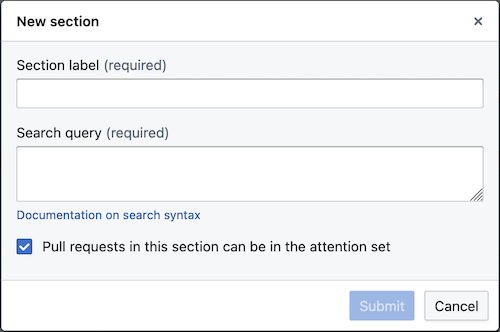
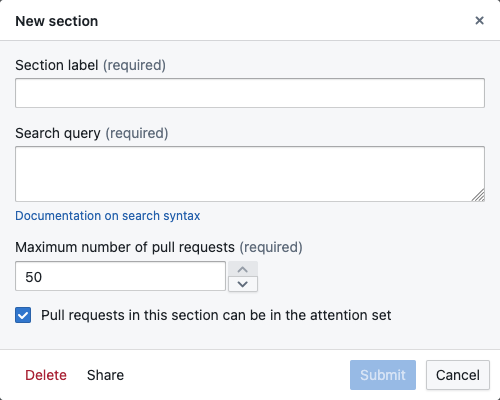
feat: limit number of pull requests returned per section

Changed region(s): [[0.0, 0.0, 1.0, 1.0], [0.18, 0.9036, 0.27, 0.9639]]

diff --git a/apps/webapp/src/components/SectionDialog.tsx b/apps/webapp/src/components/SectionDialog.tsx
@@ -7,18 +7,22 @@ import {
   FormGroup,
   InputGroup,
   Intent,
+  NumericInput,
   TextArea,
 } from "@blueprintjs/core";
 import { useState } from "react";
 import { AppToaster } from "../lib/toaster";
 import ConfirmDialog from "./ConfirmDialog";
-import { type SectionProps, defaultSectionProps } from "../lib/types";
+import {
+  MAX_SECTION_LIMIT,
+  type SectionProps,
+  emptySection,
+} from "../lib/types";
 
 type Props = {
   title: string;
   isOpen: boolean;
   section?: SectionProps;
-  newSection?: SectionProps;
   onClose: () => void;
   onSubmit: (v: SectionProps) => void;
   onDelete?: () => void;
@@ -27,43 +31,25 @@ type Props = {
 export default function SectionDialog({
   title,
   section,
-  newSection,
   isOpen,
   onClose,
   onSubmit,
   onDelete,
 }: Props) {
-  const [label, setLabel] = useState("");
-  const [search, setSearch] = useState("");
-  const [attention, setAttention] = useState(true);
+  const [data, setData] = useState<SectionProps>(emptySection);
   const [isDeleting, setDeleting] = useState(false);
 
   const handleOpening = () => {
-    setLabel(
-      section
-        ? section.label
-        : newSection
-          ? newSection.label
-          : defaultSectionProps.label,
-    );
-    setSearch(
-      section
-        ? section.search
-        : newSection
-          ? newSection.search
-          : defaultSectionProps.search,
-    );
-    setAttention(
-      section
-        ? section.attention
-        : newSection
-          ? newSection.attention
-          : defaultSectionProps.attention,
-    );
+    if (section) {
+      setData(section);
+    } else {
+      // Reset dialog after a section has been created.
+      setData(emptySection);
+    }
   };
   const handleSubmit = () => {
     if (isValid()) {
-      onSubmit({ label, search, attention });
+      onSubmit(data);
       onClose();
     }
   };
@@ -74,8 +60,9 @@ export default function SectionDialog({
   const handleShare = async () => {
     const params = new URLSearchParams();
     params.set("action", "share");
-    params.set("label", label);
-    params.set("search", search);
+    params.set("label", data.label);
+    params.set("search", data.search);
+    params.set("limit", `${data.limit}`);
     await navigator.clipboard.writeText(
       `${window.location.origin}/inbox?${params.toString()}`,
     );
@@ -85,7 +72,8 @@ export default function SectionDialog({
     });
   };
 
-  const isValid = () => label.trim().length > 0 && search.trim().length > 0;
+  const isValid = () =>
+    data.label.trim().length > 0 && data.search.trim().length > 0;
 
   return (
     <>
@@ -98,8 +86,8 @@ export default function SectionDialog({
         <DialogBody>
           <FormGroup label="Section label" labelInfo="(required)">
             <InputGroup
-              value={label}
-              onChange={(e) => setLabel(e.target.value)}
+              value={data.label}
+              onValueChange={(v) => setData((prev) => ({ ...prev, label: v }))}
             />
           </FormGroup>
           <FormGroup
@@ -115,15 +103,33 @@ export default function SectionDialog({
             }
           >
             <TextArea
-              value={search}
-              onChange={(e) => setSearch(e.target.value)}
+              value={data.search}
+              onChange={(e) =>
+                setData((prev) => ({ ...prev, search: e.target.value }))
+              }
               fill
             />
           </FormGroup>
+          <FormGroup
+            label="Maximum number of pull requests"
+            labelInfo="(required)"
+          >
+            <NumericInput
+              value={data.limit}
+              min={1}
+              max={MAX_SECTION_LIMIT}
+              onValueChange={(v) => setData((prev) => ({ ...prev, limit: v }))}
+            />
+          </FormGroup>
           <Checkbox
-            checked={attention}
+            checked={data.attention}
             label="Pull requests in this section can be in the attention set"
-            onChange={(e) => setAttention(e.currentTarget.checked)}
+            onChange={(e) =>
+              setData((prev) => ({
+                ...prev,
+                attention: e.currentTarget.checked,
+              }))
+            }
           />
         </DialogBody>
         <DialogFooter

diff --git a/apps/webapp/src/routes/dashboard.tsx b/apps/webapp/src/routes/dashboard.tsx
@@ -4,9 +4,10 @@ import { Button } from "@blueprintjs/core";
 import SectionDialog from "../components/SectionDialog";
 import DashboardSection from "../components/DashboardSection";
 import {
+  DEFAULT_SECTION_LIMIT,
   type Section,
   type SectionProps,
-  defaultSectionProps,
+  emptySection,
 } from "../lib/types";
 import { useSections, usePulls } from "../lib/queries";
 import {
@@ -25,7 +26,7 @@ export default function Dashboard() {
 
   const [isEditing, setEditing] = useState(false);
   const [searchParams, setSearchParams] = useSearchParams();
-  const [newSection, setNewSection] = useState(defaultSectionProps);
+  const [newSection, setNewSection] = useState(emptySection);
 
   const useAttentionSet = sections.data.some((section) => section.attention);
 
@@ -39,10 +40,12 @@ export default function Dashboard() {
   // Open a "New section" dialog if URL is a share link.
   useEffect(() => {
     if (searchParams.get("action") === "share") {
+      const limit = searchParams.get("limit");
       setNewSection({
         label: searchParams.get("label") || "",
         search: searchParams.get("search") || "",
-        attention: defaultSectionProps.attention,
+        limit: limit ? parseInt(limit) : DEFAULT_SECTION_LIMIT,
+        attention: emptySection.attention,
       });
       setEditing(true);
     }
@@ -79,7 +82,7 @@ export default function Dashboard() {
         />
       </Navbar>
       <SectionDialog
-        newSection={newSection}
+        section={newSection}
         title="New section"
         isOpen={sections.isLoaded && isEditing}
         onClose={() => setEditing(false)}

diff --git a/apps/webapp/src/lib/types.ts b/apps/webapp/src/lib/types.ts
@@ -1,5 +1,8 @@
 import type { Profile } from "@repo/github";
 
+export const DEFAULT_SECTION_LIMIT = 50;
+export const MAX_SECTION_LIMIT = 50;
+
 /**
  * Properties for a section, as provided by a user in a form or API.
  */
@@ -7,6 +10,7 @@ export type SectionProps = {
   label: string;
   search: string;
   attention: boolean;
+  limit?: number;
 };
 
 export const defaultSections: SectionProps[] = [
@@ -15,16 +19,19 @@ export const defaultSections: SectionProps[] = [
     search:
       "is:open -author:@me review-requested:@me ; is:open -author:@me involves:@me",
     attention: true,
+    limit: DEFAULT_SECTION_LIMIT,
   },
   {
     label: "Outgoing reviews",
     search: "is:open author:@me draft:false",
     attention: true,
+    limit: DEFAULT_SECTION_LIMIT,
   },
   {
     label: "Draft reviews",
     search: "is:open author:@me draft:true",
     attention: true,
+    limit: DEFAULT_SECTION_LIMIT,
   },
 ];
 
@@ -39,10 +46,11 @@ export type Section = SectionProps & {
 /**
  * Default properties for a new section.
  */
-export const defaultSectionProps: SectionProps = {
+export const emptySection: SectionProps = {
   label: "",
   search: "",
   attention: true,
+  limit: DEFAULT_SECTION_LIMIT,
 };
 
 /**

diff --git a/packages/github/src/client.ts b/packages/github/src/client.ts
@@ -21,8 +21,6 @@ import {
   CheckConclusionState,
 } from "../generated/gql/graphql";
 
-const MAX_PULLS_TO_FETCH = 50;
-
 const MyOctokit = Octokit.plugin(throttling);
 
 export type Endpoint = {
@@ -36,6 +34,7 @@ export interface GitHubClient {
     endpoint: Endpoint,
     search: string,
     orgs: string[],
+    limit: number,
   ): Promise<PullProps[]>;
 }
 
@@ -80,15 +79,13 @@ export class DefaultGitHubClient implements GitHubClient {
     endpoint: Endpoint,
     search: string,
     orgs: string[],
+    limit: number,
   ): Promise<PullProps[]> {
     const q = prepareQuery(search, orgs);
     const query = SearchDocument.toString() as string;
 
     const octokit = this.getOctokit(endpoint);
-    const data = await octokit.graphql<SearchQuery>(query, {
-      q,
-      limit: MAX_PULLS_TO_FETCH,
-    });
+    const data = await octokit.graphql<SearchQuery>(query, { q, limit });
     return (
       data.search.edges
         ?.filter(isNonNull)

diff --git a/apps/webapp/src/worker/instance.ts b/apps/webapp/src/worker/instance.ts
@@ -6,6 +6,7 @@ import { db } from "../lib/db";
 import { splitQueries } from "@repo/github";
 import { GitHubClient, isInAttentionSet, type Pull } from "@repo/github";
 import { gitHubClient } from "../github";
+import { DEFAULT_SECTION_LIMIT, MAX_SECTION_LIMIT } from "../lib/types";
 
 const syncPullsIntervalMillis = 5 * 60_000; // 5 minutes
 const syncViewersIntervalMillis = 60 * 60_000; // 1 hour
@@ -105,6 +106,10 @@ export async function syncPullsOnce(
                   connection,
                   query,
                   connection.orgs,
+                  Math.min(
+                    MAX_SECTION_LIMIT,
+                    section.limit ?? DEFAULT_SECTION_LIMIT,
+                  ),
                 );
                 return pulls.map((res) => ({
                   ...res,

diff --git a/apps/webapp/src/components/PullRow.tsx b/apps/webapp/src/components/PullRow.tsx
@@ -82,11 +82,7 @@ export default function PullRow({ pull }: Props) {
         ) : pull.state == "merged" ? (
           <IconWithTooltip icon="git-merge" title="Merged" color="#634DBF" />
         ) : pull.state == "enqueued" ? (
-          <IconWithTooltip
-            icon="time"
-            title="Enqueued"
-            color="#1C6E42"
-          />
+          <IconWithTooltip icon="time" title="Enqueued" color="#1C6E42" />
         ) : pull.state == "closed" ? (
           <IconWithTooltip icon="cross-circle" title="Closed" color="#AC2F33" />
         ) : pull.state == "approved" ? (

diff --git a/packages/github/tests/client.test.ts b/packages/github/tests/client.test.ts
@@ -35,6 +35,7 @@ test("should search pulls", async () => {
     endpoint,
     "repo:pvcnt/mergeable 'multiple connections'",
     [],
+    50,
   );
 
   expect(pulls).toEqual([
